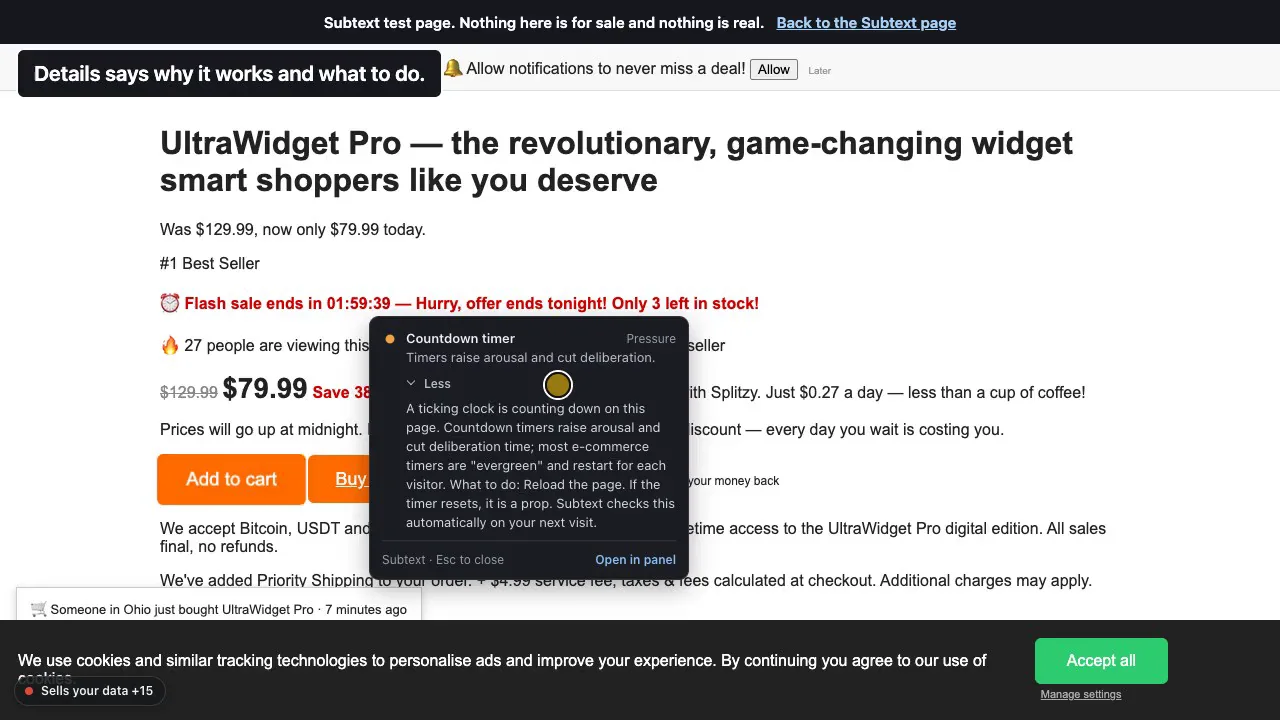
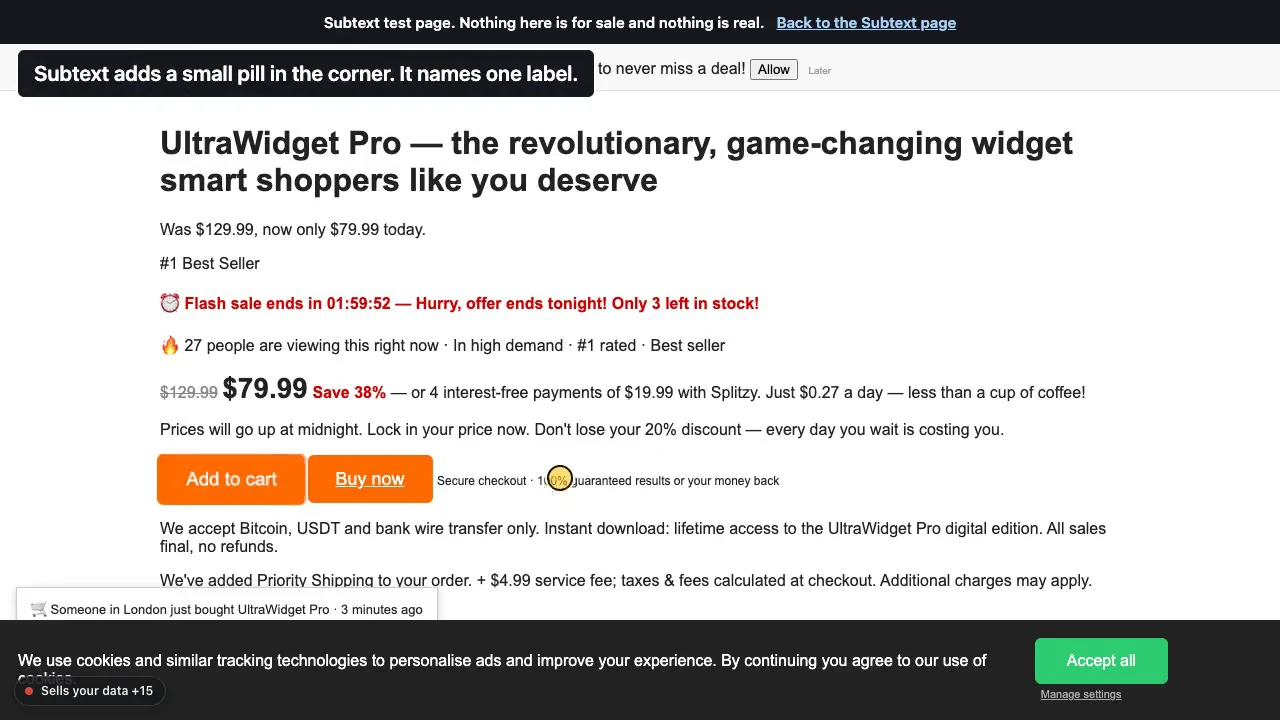
Test pages say Test page in their titles; neutral voice; one sentence on the plus-16 count; earlier video poster

Changed region(s): [[0.0938, 0.3972, 0.5625, 0.8556], [0.0312, 0.0611, 0.4688, 0.1528]]

diff --git a/index.html b/index.html
@@ -5,7 +5,6 @@
 <meta name="viewport" content="width=device-width, initial-scale=1">
 <title>Subtext: a browser extension that shows what a web page is doing</title>
 <meta name="description" content="Subtext is an open-source browser extension. It shows who is behind the page you are reading, how the site earns money, and the techniques the page uses.">
-<!-- DRAFT marker: the owner removes this robots line when he approves the copy. -->
 <meta name="robots" content="noindex">
 <meta name="color-scheme" content="light dark">
 <link rel="canonical" href="https://joshcs.github.io/subtext/">
@@ -64,7 +63,7 @@
         <img data-shot="shop-hero" src="assets/shop-hero-panel.png" srcset="assets/shop-hero-panel.png 2x" width="360" height="676" fetchpriority="high" alt="The Subtext panel on a test shop page. The panel header reads &quot;16 things to know · 10 outside companies contacted&quot;. The first labels in the list are &quot;Sells your data&quot; and &quot;Records your visit&quot;.">
       </picture>
       <!-- /shot -->
-      <figcaption>The Subtext panel on dealzone-shop.test, a test page we built.</figcaption>
+      <figcaption>The Subtext panel on dealzone-shop.test, a test page built for this project.</figcaption>
     </figure>
   </div>
 </section>
@@ -143,7 +142,7 @@
           <img data-shot="shop-pill" src="assets/shop-pill.png" srcset="assets/shop-pill.png 2x" width="320" height="86" loading="lazy" decoding="async" alt="A strip of the test shop page. In its corner a small pill reads &quot;Sells your data +15&quot;.">
         </picture>
         <!-- /shot -->
-        <figcaption>"+15" means the panel has 15 more labels.</figcaption>
+        <figcaption>"+15" means the panel has 15 more labels. You may see "+16": a pop-up on the test page adds one more label when your pointer is over the page.</figcaption>
       </figure>
     </div>
 
@@ -269,7 +268,7 @@
 <section id="privacy" aria-labelledby="h-privacy">
   <div class="wrap">
     <h2 id="h-privacy">Privacy: what leaves your browser, and when</h2>
-    <p class="measure lead">There is no Subtext server. Subtext sends nothing to the people who make it. The checks run inside your browser.</p>
+    <p class="measure lead">There is no Subtext server. Subtext sends nothing back to the project. The checks run inside your browser.</p>
     <p class="measure">Some requests do leave your browser. Each site or service that receives a request can see your IP address.</p>
     <div class="cards3">
       <div class="card">
@@ -333,7 +332,7 @@
         <li>Edge, Brave and Arc have no test run of their own.</li>
         <li>There is no browser store listing.</li>
         <li>Only AI models have reviewed the results on real pages. No person has reviewed them yet.</li>
-        <li>The makers wrote the outlet list by hand. 25 of its 134 entries still need a second review.</li>
+        <li>The outlet list was written by hand. 25 of its 134 entries still need a second review.</li>
         <li>Some data files are held back for a licence review, so a few panel lines do not appear.</li>
         <li>To send a correction, <a href="https://github.com/JoshCS/subtext/issues" rel="noopener">open an issue</a> on the repository's issues page. Subtext has no e-mail address.</li>
         <li>ChatGPT support is not tested.</li>
@@ -367,7 +366,7 @@
       <h3>Does Subtext work without an AI key?</h3>
       <p>Yes. Only Investigate needs a key.</p>
       <h3>Is it politically one-sided?</h3>
-      <p>The checks look for techniques, not political sides. We have not yet tested that left-leaning and right-leaning pages get labels at similar rates.</p>
+      <p>The checks look for techniques, not political sides. The project has not yet tested that left-leaning and right-leaning pages get labels at similar rates.</p>
     </div>
   </div>
 </section>

diff --git a/demo/index.html b/demo/index.html
@@ -5,7 +5,6 @@
 <meta name="viewport" content="width=device-width, initial-scale=1">
 <title>Try Subtext on two test pages</title>
 <meta name="description" content="Two test pages for the Subtext browser extension: a shop page and an article with a chart. Nothing on them is for sale and nothing is real.">
-<!-- DRAFT marker, as on the landing page: the owner removes this robots line when he approves the copy. -->
 <meta name="robots" content="noindex">
 <meta name="color-scheme" content="light dark">
 <link rel="canonical" href="https://joshcs.github.io/subtext/demo/">
@@ -42,7 +41,7 @@
 <section class="hero" aria-labelledby="h-try">
   <div class="wrap">
     <h1 id="h-try">Try Subtext on two test pages</h1>
-    <p class="hero__sub">We built both pages for testing. Nothing on them is for sale, nothing is real, and they contact no outside company.</p>
+    <p class="hero__sub">Both pages were built for testing. Nothing on them is for sale, nothing is real, and they contact no outside company.</p>
     <ol class="measure steps">
       <li>Install Subtext. <a href="../#get-it">The install steps</a> are on the Subtext page.</li>
       <li>Open <a href="shop.html">the shop test page</a>. It shows a pop-up of its own after about two seconds. Close the pop-up.</li>
@@ -75,7 +74,7 @@
 <section id="article" aria-labelledby="h-article">
   <div class="wrap">
     <h2 id="h-article">Then try the article test page</h2>
-    <p class="measure">Open <a href="article.html">the article test page</a>. Its text copies the style of a page that stirs up anger. We wrote it for testing, and it reports nothing real.</p>
+    <p class="measure">Open <a href="article.html">the article test page</a>. Its text copies the style of a page that stirs up anger. It was written for testing, and it reports nothing real.</p>
     <ul class="measure">
       <li>Scroll down to the first chart, a red bar chart, and rest the mouse on it. A tooltip reads "Truncated axis", then "Bars start above zero; differences look huge."</li>
       <li>Click Details in the tooltip. It reads "The y-axis starts at 80 instead of 0."</li>

diff --git a/demo/article.html b/demo/article.html
@@ -1,8 +1,9 @@
 <!doctype html>
-<html lang="en"><head><meta charset="utf-8"><title>You Won't Believe What The Elites Are Hiding About The Economy | Civic Ledger Institute</title>
+<html lang="en"><head><meta charset="utf-8"><title>Test page: You Won't Believe What The Elites Are Hiding About The Economy | Civic Ledger Institute</title>
 <meta property="og:type" content="article">
 <style>body{font-family:Georgia,serif;max-width:1100px;margin:0 auto;padding:20px;display:grid;grid-template-columns:1fr 300px;gap:30px}article p{font-size:17px;line-height:1.6}aside .sp{border:1px solid #eee;padding:8px;margin:8px 0}aside .sp small{font-size:9px;color:#ccc}figure{margin:20px 0}figcaption{font-size:13px;color:#555}#subtext-test-banner{position:fixed;top:0;left:0;right:0;z-index:3000;box-sizing:border-box;min-height:44px;padding:6px 12px;display:flex;flex-wrap:wrap;align-items:center;justify-content:center;gap:2px 12px;background:#16181d;color:#fff;font:600 15px/1.35 -apple-system,BlinkMacSystemFont,"Segoe UI",Roboto,Helvetica,Arial,sans-serif;text-align:center}#subtext-test-banner a{color:#a9d0f5;font-weight:600}#subtext-test-note{position:fixed;left:50%;bottom:24px;transform:translateX(-50%);z-index:3000;max-width:86vw;padding:10px 16px;background:#16181d;color:#fff;border-radius:6px;font:15px/1.4 -apple-system,BlinkMacSystemFont,"Segoe UI",Roboto,Helvetica,Arial,sans-serif}#subtext-test-note[hidden]{display:none}html{scroll-padding-top:70px}body{padding-top:44px}@media(max-width:560px){body{padding-top:66px}}svg,img{max-width:100%;height:auto}@media(max-width:760px){body{display:block}}
 </style>
+<meta name="description" content="A Subtext test page. Nothing here is for sale and nothing is real.">
 <meta name="viewport" content="width=device-width, initial-scale=1">
 <meta name="robots" content="noindex">
 <link rel="icon" href="../favicon.svg" type="image/svg+xml">

diff --git a/demo/shop.html b/demo/shop.html
@@ -1,6 +1,5 @@
 <!doctype html>
-<html lang="en"><head><meta charset="utf-8"><title>UltraWidget Pro — 38% OFF Today Only | DealZone</title>
-<meta name="description" content="Join 2,000,000 happy customers. Hurry, offer ends tonight!">
+<html lang="en"><head><meta charset="utf-8"><title>Test page: UltraWidget Pro — 38% OFF Today Only | DealZone</title>
 <style>
 body{font-family:Arial,sans-serif;margin:0;color:#222}
 .wrap{max-width:960px;margin:0 auto;padding:20px}
@@ -24,6 +23,7 @@ body{font-family:Arial,sans-serif;margin:0;color:#222}
 footer{color:#999;font-size:12px;margin-top:40px}
 #subtext-test-banner{position:fixed;top:0;left:0;right:0;z-index:3000;box-sizing:border-box;min-height:44px;padding:6px 12px;display:flex;flex-wrap:wrap;align-items:center;justify-content:center;gap:2px 12px;background:#16181d;color:#fff;font:600 15px/1.35 -apple-system,BlinkMacSystemFont,"Segoe UI",Roboto,Helvetica,Arial,sans-serif;text-align:center}#subtext-test-banner a{color:#a9d0f5;font-weight:600}#subtext-test-note{position:fixed;left:50%;bottom:24px;transform:translateX(-50%);z-index:3000;max-width:86vw;padding:10px 16px;background:#16181d;color:#fff;border-radius:6px;font:15px/1.4 -apple-system,BlinkMacSystemFont,"Segoe UI",Roboto,Helvetica,Arial,sans-serif}#subtext-test-note[hidden]{display:none}html{scroll-padding-top:70px}body{padding-top:44px}@media(max-width:560px){body{padding-top:66px}}@media(max-width:560px){#notif{top:66px}.tiers{flex-direction:column}}
 </style>
+<meta name="description" content="A Subtext test page. Nothing here is for sale and nothing is real.">
 <meta name="viewport" content="width=device-width, initial-scale=1">
 <meta name="robots" content="noindex">
 <link rel="icon" href="../favicon.svg" type="image/svg+xml">

diff --git a/demo/terms.html b/demo/terms.html
@@ -1,4 +1,5 @@
-<!doctype html><html lang="en"><head><meta charset="utf-8"><title>Terms of Service | DealZone</title>
+<!doctype html><html lang="en"><head><meta charset="utf-8"><title>Test page: Terms of Service | DealZone</title>
+<meta name="description" content="A Subtext test page. Nothing here is for sale and nothing is real.">
 <meta name="viewport" content="width=device-width, initial-scale=1">
 <meta name="robots" content="noindex">
 <link rel="icon" href="../favicon.svg" type="image/svg+xml">

diff --git a/demo/privacy.html b/demo/privacy.html
@@ -1,4 +1,5 @@
-<!doctype html><html lang="en"><head><meta charset="utf-8"><title>Privacy Policy | DealZone</title>
+<!doctype html><html lang="en"><head><meta charset="utf-8"><title>Test page: Privacy Policy | DealZone</title>
+<meta name="description" content="A Subtext test page. Nothing here is for sale and nothing is real.">
 <meta name="viewport" content="width=device-width, initial-scale=1">
 <meta name="robots" content="noindex">
 <link rel="icon" href="../favicon.svg" type="image/svg+xml">
